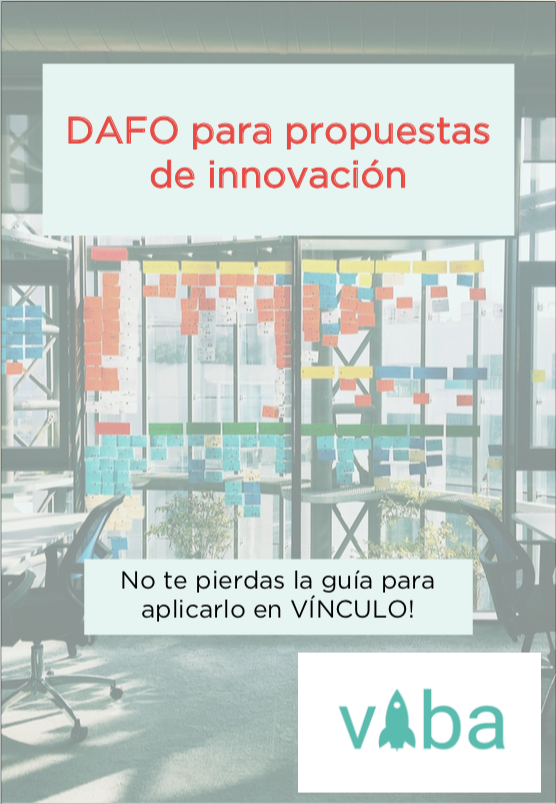
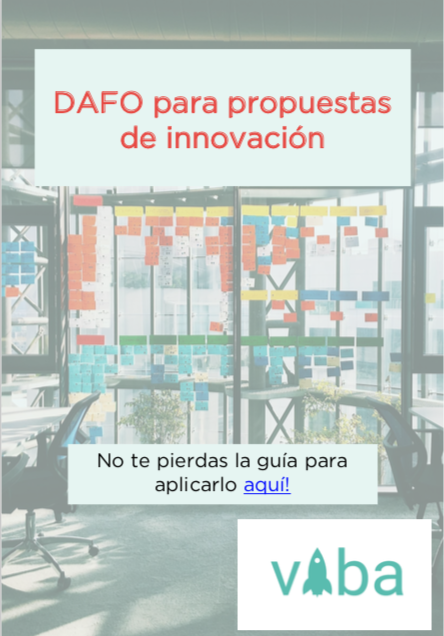
Adjust DAFO pdf image

diff --git a/docs/posts/aplica-un-dafo-a-tus-propuestas-de-innovacion/index.html b/docs/posts/aplica-un-dafo-a-tus-propuestas-de-innovacion/index.html
@@ -175,7 +175,7 @@ herramienta muy sencilla y a la vez potente para sacar una foto del estado actua
 <p><a href="/blog/DAFO_Propuestas_Innovacion.pdf">Descáragate aquí</a> una guía pdf para aplicarlo que hemos preparado para ti</p>
 
 <a href="/blog/DAFO_Propuestas_Innovacion.pdf">
-  <img src="/images/blog/DAFO.png" alt="descargate-la-guia-para-tu-dafo" />
+  <img src="/images/blog/DAFO.png" alt="descargate-la-guia-para-tu-dafo" class="medium" />
 </a>
 
             </div>

diff --git a/content/posts/aplica-un-dafo-a-tus-propuestas-de-innovacion.html b/content/posts/aplica-un-dafo-a-tus-propuestas-de-innovacion.html
@@ -38,5 +38,5 @@ herramienta muy sencilla y a la vez potente para sacar una foto del estado actua
 <p><a href="/blog/DAFO_Propuestas_Innovacion.pdf">Descáragate aquí</a> una guía pdf para aplicarlo que hemos preparado para ti</p>
 
 <a href="/blog/DAFO_Propuestas_Innovacion.pdf">
-  <img src="/images/blog/DAFO.png" alt="descargate-la-guia-para-tu-dafo" />
+  <img src="/images/blog/DAFO.png" alt="descargate-la-guia-para-tu-dafo" class="medium" />
 </a>

diff --git a/docs/base.css b/docs/base.css
@@ -269,6 +269,13 @@ h2.moto {
   margin-left: auto;
   margin-right: auto;
 }
+.article .medium {
+  display: block;
+  margin-top: 30px;
+  width: 40%;
+  margin-left: auto;
+  margin-right: auto;
+}
 .article .highlight {
   font-weight: bold;
 }

diff --git a/static/base.css b/static/base.css
@@ -269,6 +269,13 @@ h2.moto {
   margin-left: auto;
   margin-right: auto;
 }
+.article .medium {
+  display: block;
+  margin-top: 30px;
+  width: 40%;
+  margin-left: auto;
+  margin-right: auto;
+}
 .article .highlight {
   font-weight: bold;
 }

diff --git a/docs/mediaqueries.css b/docs/mediaqueries.css
@@ -97,6 +97,9 @@
   .article img {
     width: 100%;
   }
+  .article img.medium {
+    width: 70%;
+  }
   
   /* contacto */
   .contact-band {

diff --git a/static/mediaqueries.css b/static/mediaqueries.css
@@ -97,6 +97,9 @@
   .article img {
     width: 100%;
   }
+  .article img.medium {
+    width: 70%;
+  }
   
   /* contacto */
   .contact-band {
